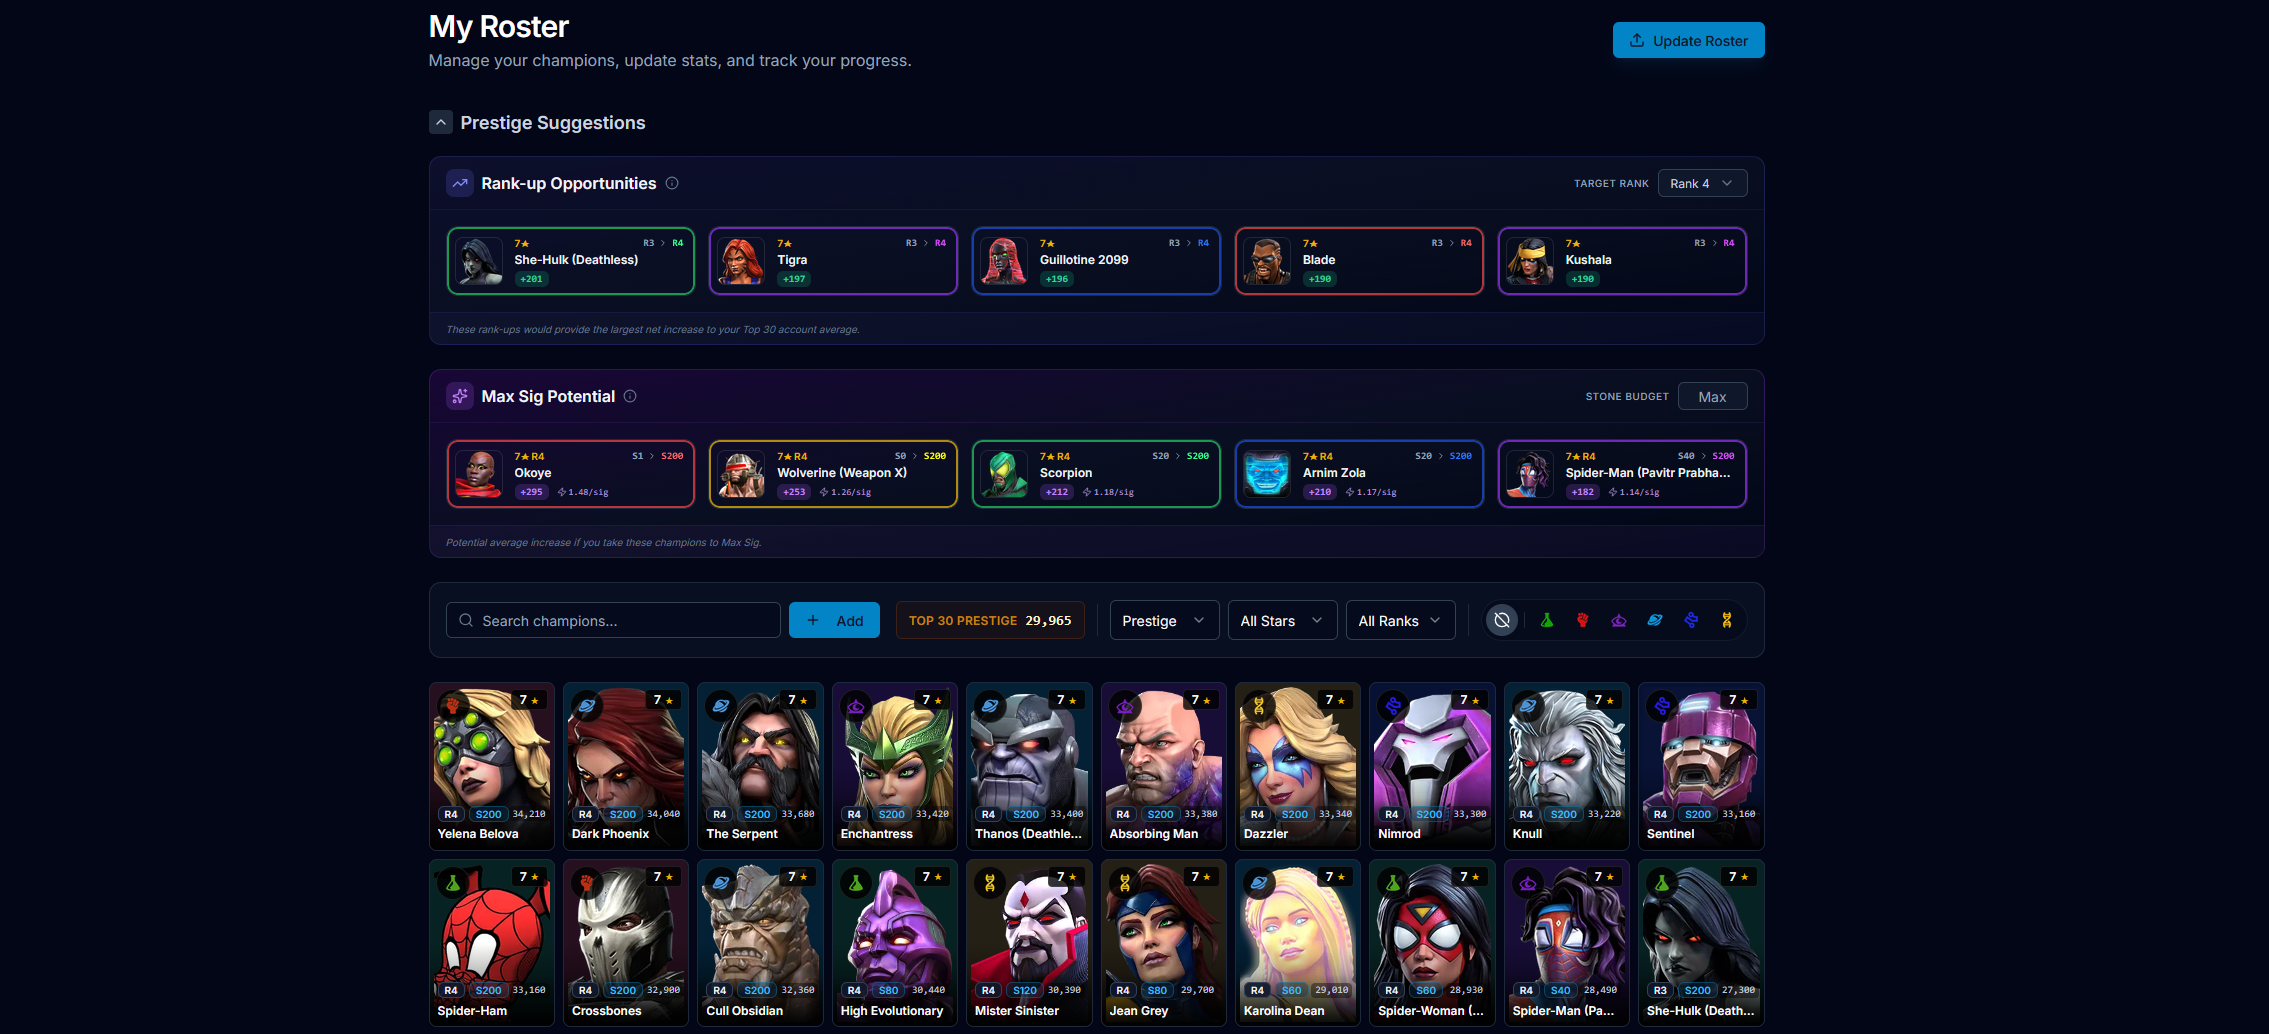
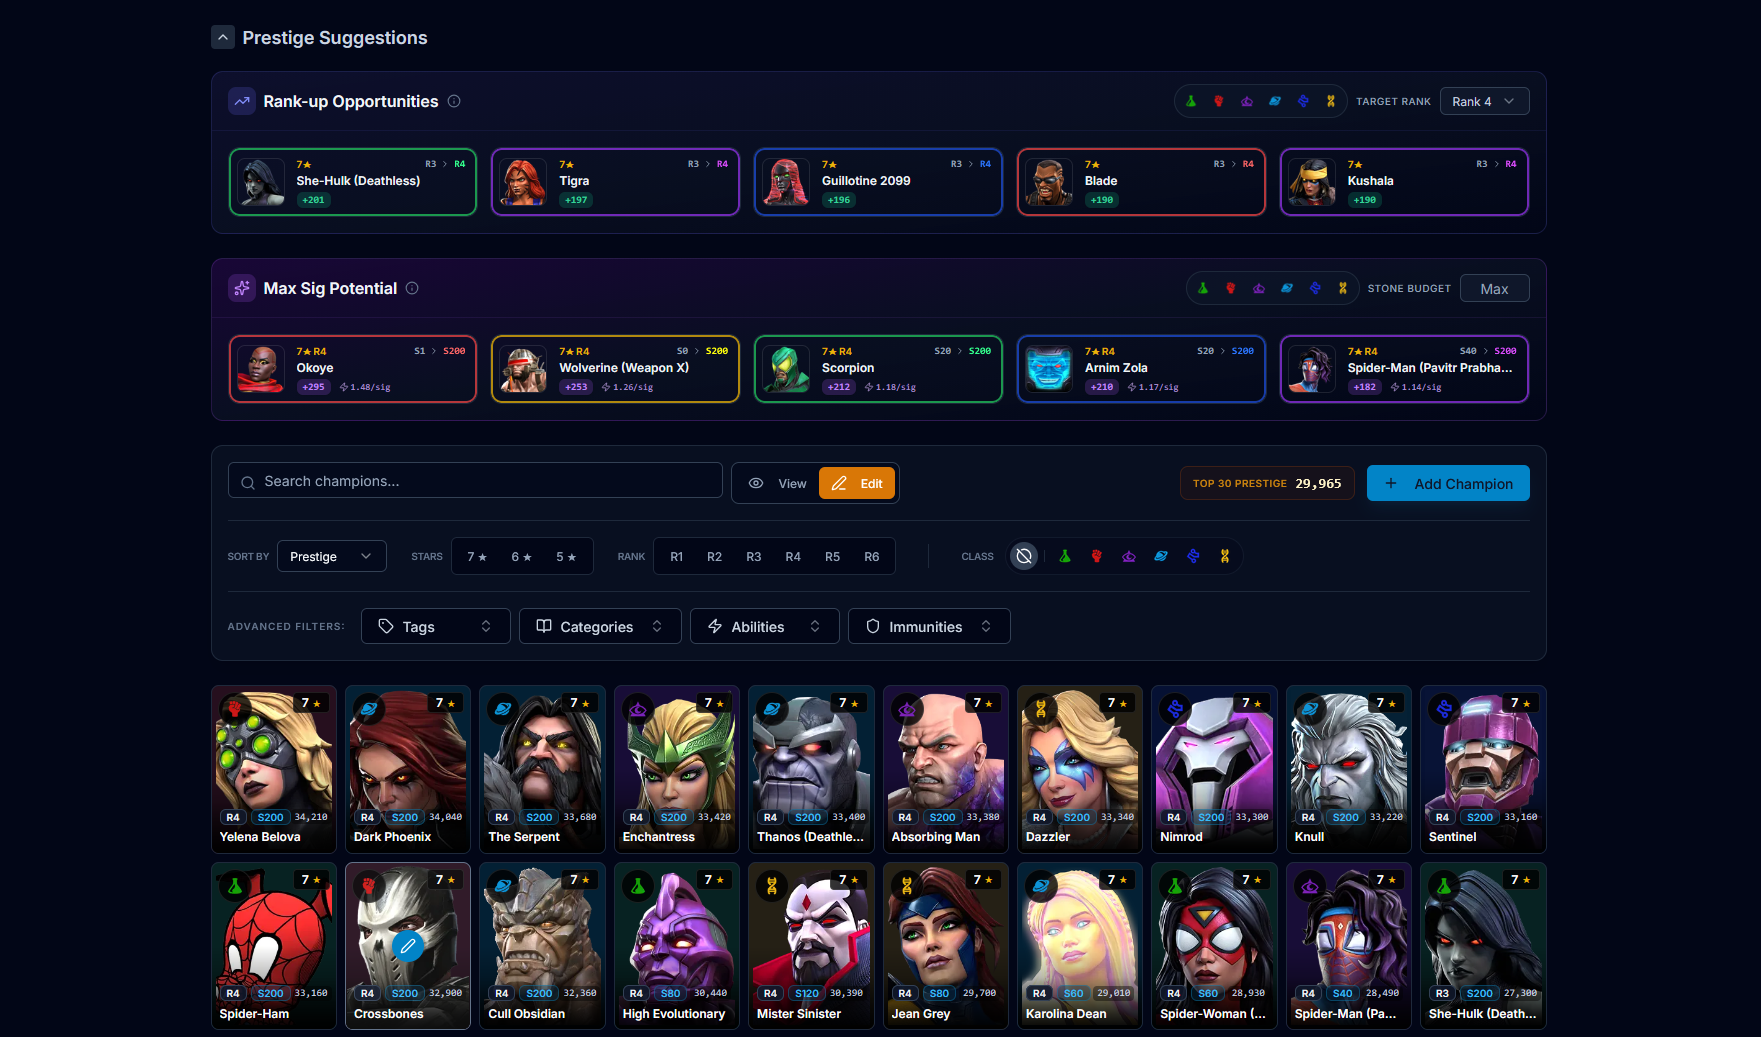
Enhance roster API and UI for champion details
Expanded the roster add and manage API endpoints to include champion tags, abilities, and synergy details. Updated ChampionCard and RosterView components to handle cases where abilities or tags may be undefined, improving robustness when filtering and displaying champion data. Updated roster-related image assets.

diff --git a/web/src/app/profile/roster/components/champion-card.tsx b/web/src/app/profile/roster/components/champion-card.tsx
@@ -132,7 +132,7 @@ export const ChampionCard = memo(({ item, prestige, onClick, mode, filters }: Ch
                                     return <div className="text-xs text-slate-500 text-center italic py-4">Select filters to view specific champion details.</div>;
                                 }
 
-                                const relevantAbilities = isFilteringAbilities ? item.champion.abilities.filter(a => {
+                                const relevantAbilities = isFilteringAbilities ? (item.champion.abilities || []).filter(a => {
                                     if (filters.abilities.length > 0 && a.type === 'ABILITY' && filters.abilities.includes(a.ability.name)) return true;
                                     if (filters.immunities.length > 0 && a.type === 'IMMUNITY' && filters.immunities.includes(a.ability.name)) return true;
                                     if (filters.categories.length > 0 && a.type === 'ABILITY' && a.ability.categories.some(c => filters.categories.includes(c.name))) return true;
@@ -142,7 +142,7 @@ export const ChampionCard = memo(({ item, prestige, onClick, mode, filters }: Ch
                                 const abilities = relevantAbilities.filter(a => a.type === 'ABILITY');
                                 const immunities = relevantAbilities.filter(a => a.type === 'IMMUNITY');
                                 const tags = isFilteringTags 
-                                    ? item.champion.tags.filter(t => filters.tags.includes(t.name)) 
+                                    ? (item.champion.tags || []).filter(t => filters.tags.includes(t.name)) 
                                     : [];
 
                                 if (abilities.length === 0 && immunities.length === 0 && tags.length === 0) {

diff --git a/web/src/app/profile/roster/roster-view.tsx b/web/src/app/profile/roster/roster-view.tsx
@@ -154,9 +154,9 @@ export function RosterView({
       if (!matchesSearch || !matchesClass || !matchesStars || !matchesRank) return false;
 
       // Pre-compute sets once per item for performance
-      const abilityEntries = item.champion.abilities.filter(a => a.type === 'ABILITY');
-      const immunityEntries = item.champion.abilities.filter(a => a.type === 'IMMUNITY');
-      const champTags = item.champion.tags.map(t => t.name);
+      const abilityEntries = (item.champion.abilities || []).filter(a => a.type === 'ABILITY');
+      const immunityEntries = (item.champion.abilities || []).filter(a => a.type === 'IMMUNITY');
+      const champTags = (item.champion.tags || []).map(t => t.name);
       
       if (tagFilter.length > 0) {
           if (tagLogic === 'AND') { if (!tagFilter.every(t => champTags.includes(t))) return false; }

diff --git a/web/src/app/api/profile/roster/add/route.ts b/web/src/app/api/profile/roster/add/route.ts
@@ -47,7 +47,24 @@ export async function POST(req: Request) {
         isAscended,
       },
       include: {
-        champion: true,
+        champion: {
+          include: {
+            tags: { select: { id: true, name: true } },
+            abilities: {
+              include: {
+                ability: {
+                  select: {
+                    name: true,
+                    categories: { select: { name: true } }
+                  }
+                },
+                synergyChampions: {
+                  include: { champion: { select: { name: true, images: true } } }
+                }
+              }
+            }
+          }
+        },
       },
     });
 

diff --git a/web/src/app/api/profile/roster/manage/route.ts b/web/src/app/api/profile/roster/manage/route.ts
@@ -47,7 +47,24 @@ export async function PUT(req: Request) {
         sigLevel,
       },
       include: {
-        champion: true,
+        champion: {
+          include: {
+            tags: { select: { id: true, name: true } },
+            abilities: {
+              include: {
+                ability: {
+                  select: {
+                    name: true,
+                    categories: { select: { name: true } }
+                  }
+                },
+                synergyChampions: {
+                  include: { champion: { select: { name: true, images: true } } }
+                }
+              }
+            }
+          }
+        },
       },
     });
 
